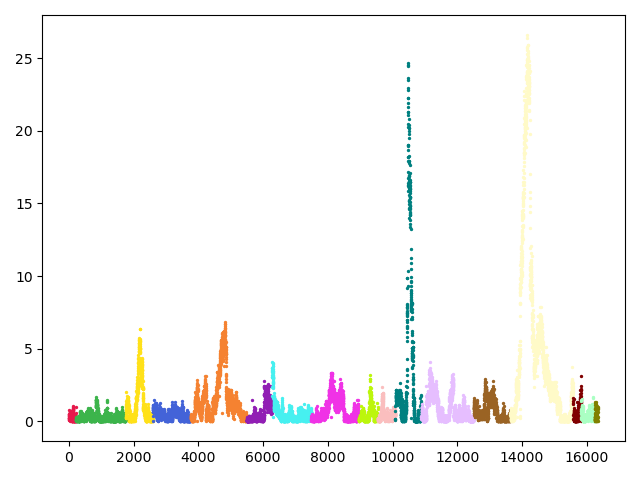
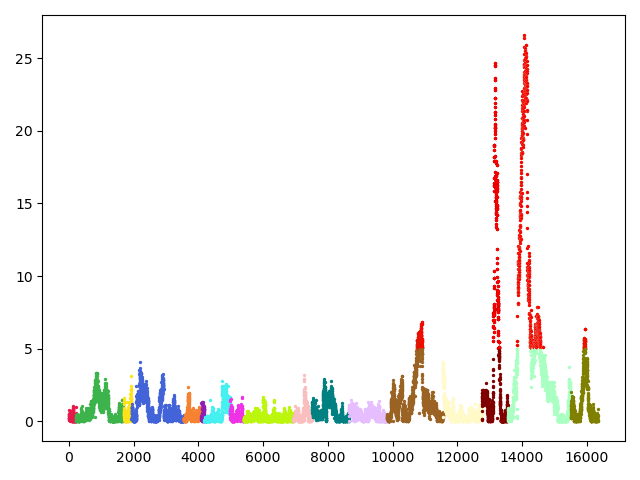
week4 homework
week4 homework

Changed region(s): [[0.125, 0.0625, 0.9375, 0.9062], [0.75, 0.1562, 0.7812, 0.4688], [0.625, 0.1562, 0.6562, 0.4688]]

diff --git a/manhattan.py b/manhattan.py
@@ -8,7 +8,7 @@ import matplotlib.pyplot as plt
 chrom_tup=[]
 chr_length = {}
 cc_dict = {}
-chr_list = set()
+chr_list = []
 
 
 for file_name in os.listdir(os.getcwd()):
@@ -21,10 +21,12 @@ for file_name in os.listdir(os.getcwd()):
                continue
            p_value = float(line.rstrip().split()[-1])
            chrom = line.rstrip().split()[0]
-           chr_list.add(chrom)
+           #chr_list.add(chrom)
            #position = line.rstrip().split()[2]
            chrom_tup.append((chrom, -np.log10(p_value)))
-       
+           if chrom not in chr_list:
+               chr_list.append(chrom)
+               
            #chr_length[chrom]= position
            
     chr_color = list(chr_list)
@@ -38,6 +40,8 @@ for file_name in os.listdir(os.getcwd()):
         for point in chrom_tup:
             if point[0] == chr:
                 ax.scatter(start_point, point[1], color = cc_dict[point[0]], s = 2)
+                if point[1] > 5:
+                    ax.scatter(start_point, point[1], color = "red", s = 2)    
                 start_point += 1
              # elif point[0] != chr:
    #                 offset = chr_length[chr]
